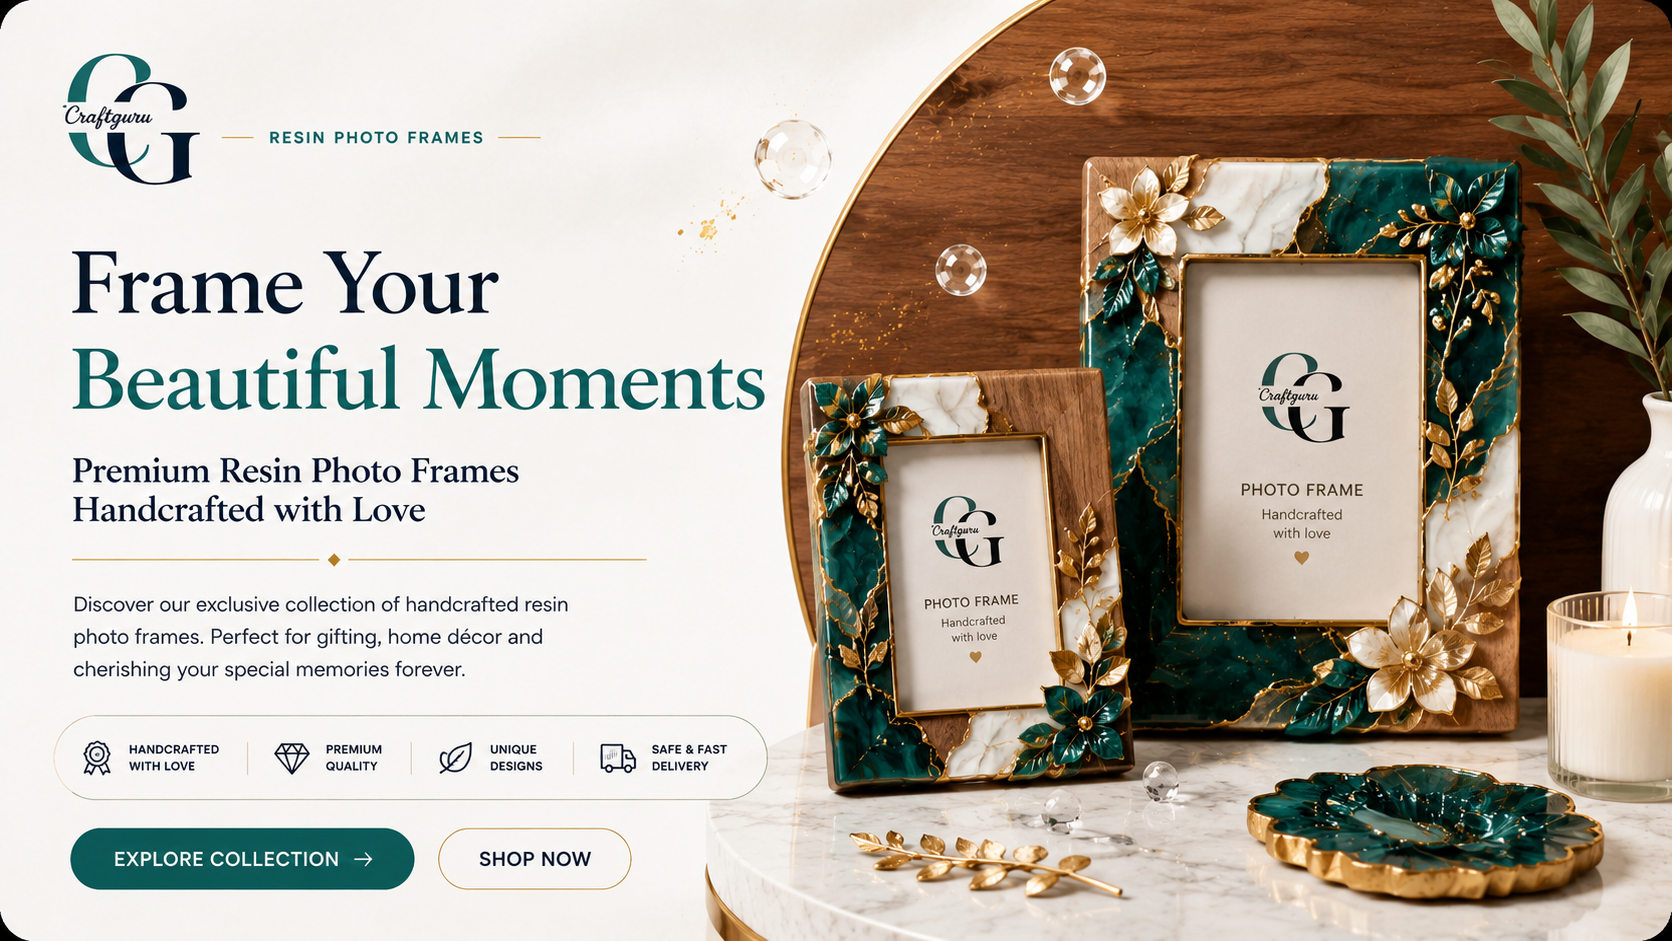
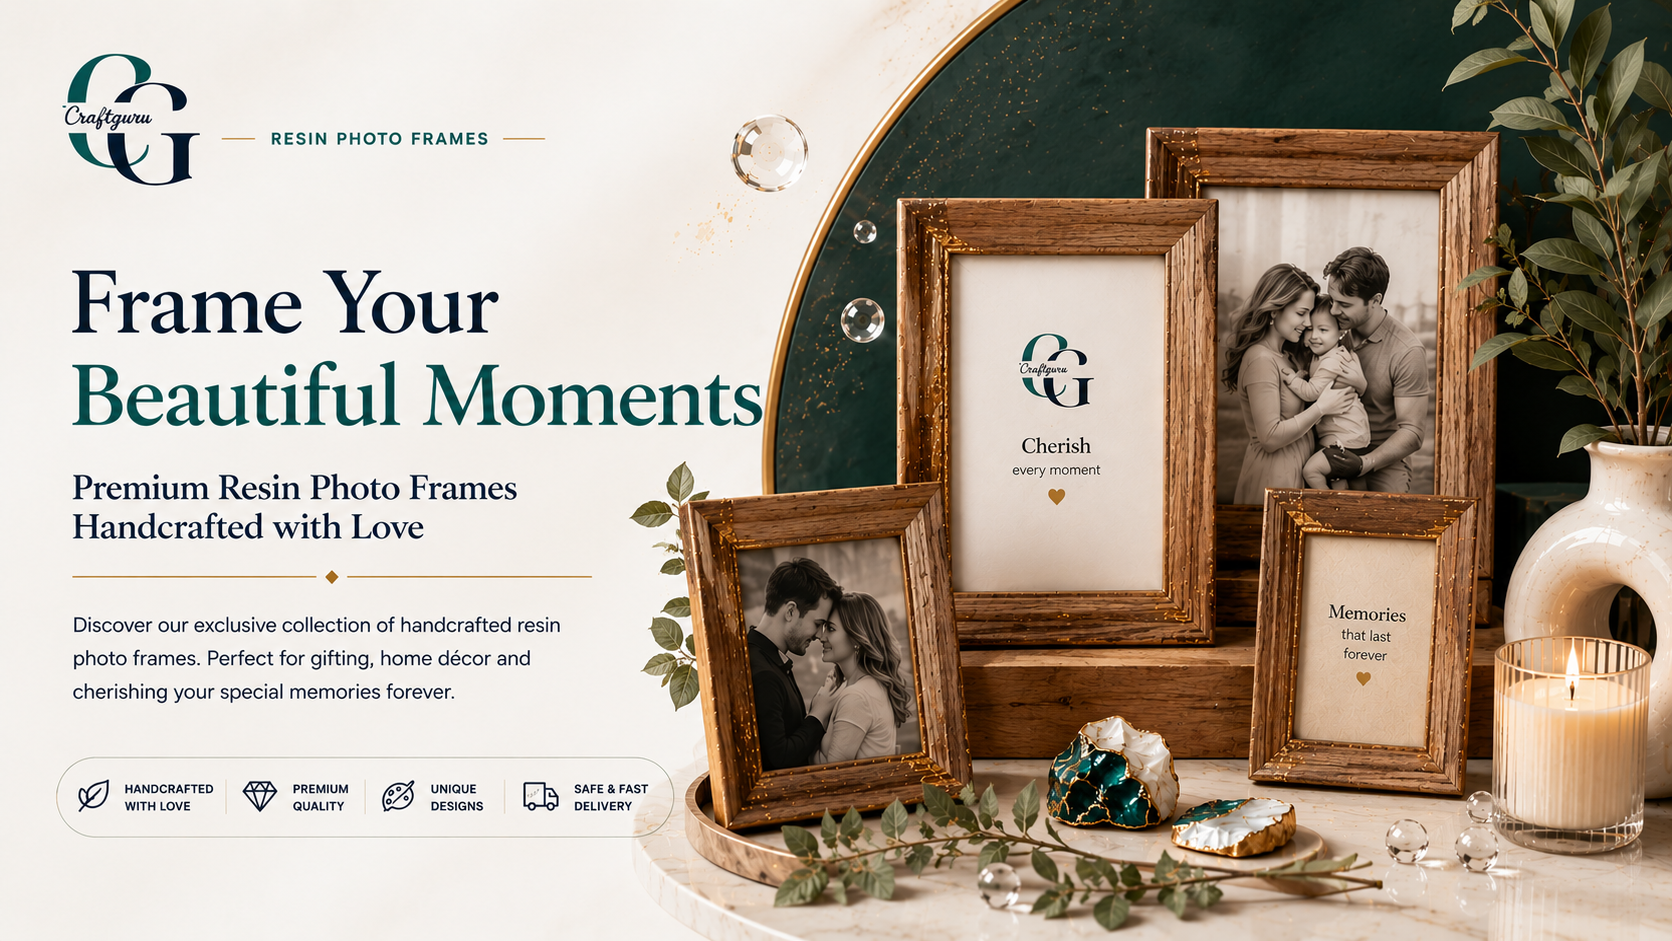
Add glowing Shop Now hero CTAs, harden Razorpay live checkout, and refresh photo frames hero art.
Overlay a themed Shop Now button on all storefront heroes, block test Razorpay keys in production with clearer status checks, and ship the updated pf-hero-panelnew.png asset.

diff --git a/server/index.js b/server/index.js
@@ -100,11 +100,32 @@ try {
   Razorpay = null;
 }
 
+function describeRazorpayConfig() {
+  var id = String(RAZORPAY_KEY_ID || "").trim();
+  var secret = String(RAZORPAY_KEY_SECRET || "").trim();
+  var sdk = Boolean(Razorpay);
+  var configured = Boolean(sdk && id && secret);
+  var mode = "missing";
+  if (id.indexOf("rzp_live_") === 0) mode = "live";
+  else if (id.indexOf("rzp_test_") === 0) mode = "test";
+  else if (configured) mode = "unknown";
+  var blockedInProduction =
+    String(NODE_ENV || "").toLowerCase() === "production" && mode === "test";
+  return {
+    configured: configured && !blockedInProduction,
+    sdkInstalled: sdk,
+    mode: mode,
+    blockedInProduction: blockedInProduction,
+    keyIdPrefix: id ? id.slice(0, 12) + "…" : "",
+  };
+}
+
 function getRazorpayClient() {
-  if (!Razorpay || !RAZORPAY_KEY_ID || !RAZORPAY_KEY_SECRET) return null;
+  var st = describeRazorpayConfig();
+  if (!st.configured) return null;
   return new Razorpay({
-    key_id: RAZORPAY_KEY_ID,
-    key_secret: RAZORPAY_KEY_SECRET,
+    key_id: String(RAZORPAY_KEY_ID).trim(),
+    key_secret: String(RAZORPAY_KEY_SECRET).trim(),
   });
 }
 
@@ -683,7 +704,8 @@ app.get("/api/health", function (_req, res) {
       ok: true,
       status: "ok",
       whatsappConfigured: hasToken,
-      razorpayConfigured: Boolean(RAZORPAY_KEY_ID && RAZORPAY_KEY_SECRET && Razorpay),
+      razorpay: describeRazorpayConfig(),
+      razorpayConfigured: describeRazorpayConfig().configured,
       emailConfigured: Boolean(createMailTransport()),
       googleSignInConfigured: guestGoogleAuth.googleSignInConfigured(),
       database: poolMod.isEnabled()
@@ -780,6 +802,24 @@ app.post("/api/preview-bill-pdf", function (req, res) {
       .catch(function (err) {
         res.status(500).json({ ok: false, error: err && err.message ? err.message : "PDF render failed" });
       });
+  });
+});
+
+/** Public: Razorpay readiness (no secrets). Checkout uses this for clearer errors. */
+app.get("/api/razorpay-status", function (_req, res) {
+  var st = describeRazorpayConfig();
+  res.setHeader("Cache-Control", "no-store");
+  res.json({
+    ok: true,
+    configured: st.configured,
+    mode: st.mode,
+    keyIdPrefix: st.keyIdPrefix,
+    blockedInProduction: st.blockedInProduction,
+    hint: st.configured
+      ? "Live Razorpay checkout is ready."
+      : st.blockedInProduction
+        ? "Test Razorpay keys are blocked in production. Set RAZORPAY_KEY_ID=rzp_live_… and RAZORPAY_KEY_SECRET on the server."
+        : "Set RAZORPAY_KEY_ID and RAZORPAY_KEY_SECRET in server environment (see server/.env.example).",
   });
 });
 
@@ -3802,6 +3842,18 @@ function onServerListen() {
     console.log("Postgres: DATABASE_URL set — run npm run db:migrate && npm run db:seed (from server/) once.");
   } else {
     console.log("Postgres: not configured — orders use server/data/orders.json (file mode).");
+  }
+  var rz = describeRazorpayConfig();
+  if (rz.configured) {
+    console.log("Razorpay: ready (" + rz.mode + " · " + rz.keyIdPrefix + "). Checkout → Pay securely now.");
+  } else if (rz.blockedInProduction) {
+    console.warn(
+      "[razorpay] Test keys detected with NODE_ENV=production — live checkout disabled. Use rzp_live_* keys in RAZORPAY_KEY_ID / RAZORPAY_KEY_SECRET."
+    );
+  } else {
+    console.warn(
+      "[razorpay] Not configured — checkout Pay button will fail until RAZORPAY_KEY_ID and RAZORPAY_KEY_SECRET are set (see server/.env.example)."
+    );
   }
   if (catalogMediaPath.hasExternalUploadRoot()) {
     console.log(

diff --git a/hero-exact-shared.css b/hero-exact-shared.css
@@ -276,3 +276,146 @@
     transform: none;
   }
 }
+
+/* ---- Visible Shop Now CTA (lower-left, on top of hero art) ---- */
+
+.hero-shop-now-layer {
+  position: absolute;
+  inset: 0;
+  z-index: 6;
+  pointer-events: none;
+  border-radius: inherit;
+}
+
+.hero-shop-now-btn {
+  position: absolute;
+  left: clamp(0.85rem, 2.6%, 2.25rem);
+  bottom: clamp(0.75rem, 7.2%, 2.5rem);
+  pointer-events: auto;
+  display: inline-flex;
+  align-items: center;
+  justify-content: center;
+  gap: 0.35rem;
+  min-height: 2.65rem;
+  padding: 0.72rem 1.45rem;
+  border-radius: 999px;
+  font-family: inherit;
+  font-size: clamp(0.7rem, 1.65vw, 0.86rem);
+  font-weight: 700;
+  letter-spacing: 0.08em;
+  text-transform: uppercase;
+  text-decoration: none;
+  white-space: nowrap;
+  color: #ffffff;
+  background: linear-gradient(135deg, #7dd3c7 0%, #26a69a 52%, #1e8e84 100%);
+  border: 1px solid rgba(255, 255, 255, 0.42);
+  box-shadow:
+    0 14px 36px rgba(38, 166, 154, 0.28),
+    0 0 18px rgba(125, 211, 199, 0.35),
+    0 1px 0 rgba(255, 255, 255, 0.38) inset;
+  isolation: isolate;
+  -webkit-tap-highlight-color: transparent;
+  transform: translateZ(0);
+  animation:
+    heroShopNowIn 0.85s cubic-bezier(0.22, 1, 0.36, 1) 0.25s both,
+    heroShopNowGlow 2.6s ease-in-out 1.1s infinite;
+  transition:
+    transform 0.32s cubic-bezier(0.22, 1, 0.36, 1),
+    filter 0.32s ease,
+    box-shadow 0.32s ease;
+}
+
+.hero-shop-now-btn::before {
+  content: "";
+  position: absolute;
+  inset: -4px;
+  border-radius: inherit;
+  background: radial-gradient(circle at 50% 50%, rgba(125, 211, 199, 0.55), transparent 68%);
+  opacity: 0.65;
+  z-index: -1;
+  animation: heroShopNowPulse 2.6s ease-in-out infinite;
+  pointer-events: none;
+}
+
+.hero-shop-now-btn:hover {
+  transform: translateY(-3px) scale(1.03);
+  filter: brightness(1.05);
+  box-shadow:
+    0 20px 44px rgba(38, 166, 154, 0.38),
+    0 0 32px rgba(125, 211, 199, 0.55),
+    0 0 56px rgba(38, 166, 154, 0.22),
+    0 1px 0 rgba(255, 255, 255, 0.45) inset;
+}
+
+.hero-shop-now-btn:active {
+  transform: translateY(-1px) scale(1.01);
+  transition-duration: 0.12s;
+}
+
+.hero-shop-now-btn:focus-visible {
+  outline: 2px solid rgba(255, 255, 255, 0.92);
+  outline-offset: 3px;
+}
+
+@keyframes heroShopNowIn {
+  from {
+    opacity: 0;
+    transform: translateY(10px) scale(0.96);
+  }
+  to {
+    opacity: 1;
+    transform: translateY(0) scale(1);
+  }
+}
+
+@keyframes heroShopNowGlow {
+  0%,
+  100% {
+    box-shadow:
+      0 14px 36px rgba(38, 166, 154, 0.24),
+      0 0 16px rgba(125, 211, 199, 0.32),
+      0 1px 0 rgba(255, 255, 255, 0.38) inset;
+  }
+  50% {
+    box-shadow:
+      0 18px 42px rgba(38, 166, 154, 0.38),
+      0 0 28px rgba(125, 211, 199, 0.52),
+      0 0 48px rgba(38, 166, 154, 0.2),
+      0 1px 0 rgba(255, 255, 255, 0.42) inset;
+  }
+}
+
+@keyframes heroShopNowPulse {
+  0%,
+  100% {
+    opacity: 0.45;
+    transform: scale(0.96);
+  }
+  50% {
+    opacity: 0.85;
+    transform: scale(1.06);
+  }
+}
+
+@media (max-width: 640px) {
+  .hero-shop-now-btn {
+    left: clamp(0.65rem, 3.5%, 1rem);
+    bottom: clamp(0.55rem, 5.5%, 1.25rem);
+    min-height: 2.45rem;
+    padding: 0.62rem 1.15rem;
+    font-size: 0.68rem;
+  }
+}
+
+@media (prefers-reduced-motion: reduce) {
+  .hero-shop-now-btn,
+  .hero-shop-now-btn::before {
+    animation: none !important;
+    transition: none !important;
+  }
+
+  .hero-shop-now-btn:hover,
+  .hero-shop-now-btn:active {
+    transform: none;
+  }
+}

diff --git a/index.html b/index.html
@@ -136,10 +136,10 @@
             </div>
           </div>
           <div class="home-landing-hero__hits">
-            <a class="hero-exact-hit hero-exact-hit--shop home-landing-hero__hit home-landing-hero__hit--shop" href="#categories" aria-label="Shop categories">
-              <span class="hero-exact-hit__arrow" aria-hidden="true"></span>
-            </a>
             <a class="hero-exact-hit home-landing-hero__hit home-landing-hero__hit--browse" href="return-gifts.html" aria-label="Return gifts"></a>
+          </div>
+          <div class="hero-shop-now-layer">
+            <a class="hero-shop-now-btn" href="#categories">Shop Now</a>
           </div>
           <div class="hero-atelier__fx home-landing-hero__fx" aria-hidden="true">
             <span class="hero-atelier__wave"></span>
@@ -178,6 +178,9 @@
               loading="eager"
               decoding="async"
             />
+            <div class="hero-shop-now-layer">
+              <a class="hero-shop-now-btn" href="#categories">Shop Now</a>
+            </div>
           </div>
         </div>
       </div>

diff --git a/raw-material-shop.html b/raw-material-shop.html
@@ -137,10 +137,10 @@
                 </div>
               </div>
               <div class="rm-landing-hero__hits">
-                <a class="hero-exact-hit hero-exact-hit--shop rm-landing-hero__hit rm-landing-hero__hit--shop" href="#rm-shop" aria-label="Shop now">
-                  <span class="hero-exact-hit__arrow" aria-hidden="true"></span>
-                </a>
                 <a class="hero-exact-hit rm-landing-hero__hit rm-landing-hero__hit--browse" href="#rmCatHubHeading" aria-label="Browse categories"></a>
+              </div>
+              <div class="hero-shop-now-layer">
+                <a class="hero-shop-now-btn" href="#rm-shop">Shop Now</a>
               </div>
               <div class="rm-landing-hero__fx" aria-hidden="true">
                 <span class="rm-landing-hero__wave"></span>

diff --git a/photo-frames.html b/photo-frames.html
@@ -141,10 +141,10 @@
                 </div>
               </div>
               <div class="pf-landing-hero__hits">
-                <a class="hero-exact-hit hero-exact-hit--shop pf-landing-hero__hit pf-landing-hero__hit--shop" href="#rm-shop" aria-label="Shop frames">
-                  <span class="hero-exact-hit__arrow" aria-hidden="true"></span>
-                </a>
                 <a class="hero-exact-hit pf-landing-hero__hit pf-landing-hero__hit--browse" href="#rmCatHubHeading" aria-label="Browse styles"></a>
+              </div>
+              <div class="hero-shop-now-layer">
+                <a class="hero-shop-now-btn" href="#rm-shop">Shop Now</a>
               </div>
               <div class="pf-landing-hero__fx" aria-hidden="true">
                 <span class="pf-landing-hero__wave"></span>

diff --git a/craftguru-theme.css b/craftguru-theme.css
@@ -388,6 +388,7 @@ body.rm-theme--photo-frame .rm-nav-tree__link.is-active {
 
 body:not(.vendor-saas) .btn-glass-dome,
 body:not(.vendor-saas) .hero-atelier__btn--primary,
+body:not(.vendor-saas) .hero-shop-now-btn,
 body:not(.vendor-saas) .rm-hero__cta:not(.rm-hero__cta--ghost),
 body.pdp-ethereal .add-btn,
 body.pdp-ethereal .size-dock__cta,
@@ -402,6 +403,7 @@ body.pdp-ethereal .rm-pdp__btn--primary {
 
 body:not(.vendor-saas) .btn-glass-dome:hover,
 body:not(.vendor-saas) .hero-atelier__btn--primary:hover,
+body:not(.vendor-saas) .hero-shop-now-btn:hover,
 body.pdp-ethereal .add-btn:hover,
 body.pdp-ethereal .rm-pdp__btn--primary:hover {
   transform: translateY(-2px);

diff --git a/checkout.html b/checkout.html
@@ -251,7 +251,7 @@
               </div>
               <p class="checkout-address-msg" id="checkoutAddressMsg" role="status" aria-live="polite" hidden></p>
               <p class="checkout-note">
-                Add guest address saves the order and tag; keeps you on this page. Pay now opens Razorpay. Questions on WhatsApp
+                Save shipping saves your address only — your order is created after Razorpay payment succeeds. Pay now opens secure checkout. Questions on WhatsApp
                 <strong>+91-8824350056</strong>.
               </p>
               </div>

diff --git a/checkout.js b/checkout.js
@@ -1323,7 +1323,7 @@
               order_id: order.orderId,
               name: "Craftguru",
               description: "Order payment",
-              theme: { color: "#3b6fd9" },
+              theme: { color: "#26a69a" },
               prefill: {
                 email: email,
                 contact: phoneDigits ? "+91" + phoneDigits : "",
